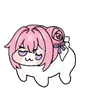
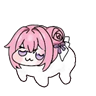
Redesign blink as stationary facial states

Changed region(s): [[0.3438, 0.5312, 0.4688, 0.6562]]

diff --git a/TASKS.md b/TASKS.md
@@ -9,7 +9,7 @@
   | Persist approved M1 design and implementation plan | Current spec and implementation plan inspected; JOENESS contract linked | Complete |
   | Implement and verify M1 | Automated core checks, Release publish, and all actual-Windows acceptance checks in the spec pass | In progress — the replacement E-only artifact uses `W=1.5`, E gain `2.5`, and C gain `0`. Source/native generation, causal thin-outline regression, repository visual inspection, independent review, fresh automation, framework-dependent publish, and attempt-8 actual-Windows body-outline observation pass. Closed-eye expression/motion refinement and remaining interaction/non-interference observations remain UNVERIFIED, so broader M1 is PARTIAL. |
   | Close phase-1 body-art correction | Exact E-only artifact preserves the canonical no-tail silhouette, matches the thin head/hair line, contains no protruding or internal continuation ink, and receives direct Windows user acceptance | Complete — user said `좋다` on attempt 8; exact evidence and cleanup are recorded. |
-  | Design and implement the next visual behavior phase | Character-preserving closed-eye revision plus distinct expressions and motion for mouse/situation states, with actual-Windows observation | In progress — Task 9 replaces the screen-right eye as part of the complete face frame instead of drawing a clipped eye-only overlay. Independent review rejected the first loose tolerance; the final check permits at most `0.01px`. The closed curve now moves from rejected center `39.81805` to `36.82536`, a measured `2.99269px` left movement with only `0.00731px` target error. The half frame moves the entire eye region progressively by an intermediate amount. Canonical open and screen-left eye remain unchanged, and all 97 reviewed foreground-hair source coordinates are restored over the eye. Static native inspection and full automated verification pass. The final exact runtime is open as PID `22088`; live IDLE blink and direct user acceptance remain `UNVERIFIED`, as do SLEEP breathing, click-only wake, and later state expressions/motion. Do not expand into progression, sound, accounts, or other deferred systems. |
+  | Design and implement the next visual behavior phase | Character-preserving closed-eye revision plus distinct expressions and motion for mouse/situation states, with actual-Windows observation | In progress — direct observation rejected Task 9's forced `3px` translation. Task 10 removes all translated-mask/content-copy paths and redraws stationary full-face eye states behind preserved foreground hair. The selected screen-right full-close curve is a separate connected `⌣` at native bounds `(38,53)-(43,56)` with `0.80394px` dip; half-close keeps the iris horizontally stationary and balances progress at `10/24` versus `17/40`. Canonical open remains unchanged. Static native inspection, independent review, focused tests, full ExactArt, Core `78/78`, and Release build pass. Stale Task 9 PID `22088` remains open until an exact clean Task 10 runtime is prepared. New live IDLE blink and direct user acceptance remain `UNVERIFIED`, as do SLEEP breathing, click-only wake, and later state expressions/motion. Do not expand into progression, sound, accounts, or other deferred systems. |
 
 - Blockers / decisions / links: no new Windows environment is required. Repository tests, asset inspection, assembly identity, and process liveness still do not prove live Windows rendering. The active body outline is accepted, but the next phase must preserve the exact supplied no-tail Dororong identity while revising closed eyes and adding state-specific expression/motion. Direct clicks continue to outrank inferred STARTLED reactions. Links: [eye-geometry/blink recovery plan](docs/plans/2026-08-29-dororong-stage-a-eye-geometry-blink-recovery.md), [expression/animation roadmap](docs/roadmaps/2026-08-28-dororong-m1-expression-animation-roadmap.md), [Stage A implementation plan](docs/plans/2026-08-28-dororong-m1-stage-a-closed-eye-sleep.md), [Stage A attempt-2 verdict](docs/verification/2026-08-29-m1-windows-acceptance-manual-stage-a-attempt-2.md), [specification](docs/specs/2026-08-26-dororong-m1-design.md), [body-outline plan](docs/plans/2026-08-27-dororong-complete-body-ownership-outline.md), [README](README.md), [attempt-7 FAIL](docs/verification/2026-08-28-m1-windows-acceptance-manual-attempt-7.md), [attempt-8 body PASS](docs/verification/2026-08-28-m1-windows-acceptance-manual-attempt-8.md), and [phase-1 history](docs/handoff/2026-08-28-dororong-phase-1-conversation-and-work-history.md).
-- Evidence / reviewed: 2026-08-29 — Stage A attempts 1–3, the blink attempt at clean HEAD `612f252f7f75a301c275212f4dd4185d6b75023f`, and Task 7's first hair-preserving runtime at `9ee97edc8dd71d183bcd48a23196014383d14929` remain eye-appearance/motion `FAIL`. Task 8 separated the lids from the hair but the user rejected the screen-right eye's global position. Task 9's source-first whole-face correction uses translated source masks `-8px` full / `-4px` half plus subpixel calibration, produces final native screen-right center `36.82536` against target `36.81805`, preserves canonical-open hash `238AC7F...B511`, restores 97 hair coordinates, and records full/half hashes `1F8A50A5...2331` / `44339755...0682`. The strict target error is `0.00731px` under a `0.01px` bound. Full automated verification and primary native open/half/full inspection pass. Final exact PID `22088` is running from `artifacts/repro/stage-a-right-eye-left-3px-attempt-2/`. Direct user acceptance, live IDLE blink, SLEEP breathing, and click-only wake remain `UNVERIFIED`. Phase-1 body-outline PASS and provenance boundaries remain unchanged. Broader M1 remains PARTIAL.
+- Evidence / reviewed: 2026-08-29 — Stage A attempts 1–3, the blink attempt at clean HEAD `612f252f7f75a301c275212f4dd4185d6b75023f`, Task 7's first hair-preserving runtime at `9ee97edc8dd71d183bcd48a23196014383d14929`, and Task 9's forced-left runtime remain eye-appearance/motion `FAIL`. Task 10 removes the old `-8/-4` translation implementation and its widened test allowances. Canonical open remains `238AC7F...B511`; selected native full/half identities are `62840545...F811` / `37200E62...0152`. ExactArt measures the screen-right curve as one six-column component with `0.80394px` dip and the half-close lower-iris centroid remains within `0.50px` of open. Static visual inspection, independent review, focused blink/occlusion/half/sleep/runtime checks, full ExactArt, Release build, and Core `78/78` pass. PID `22088` still runs the stale rejected Task 9 artifact and is not Task 10 evidence. Direct Task 10 live IDLE acceptance, SLEEP breathing, and click-only wake remain `UNVERIFIED`. Phase-1 body-outline PASS and provenance boundaries remain unchanged. Broader M1 remains PARTIAL.

diff --git a/docs/plans/2026-08-29-dororong-stage-a-eye-geometry-blink-recovery.md b/docs/plans/2026-08-29-dororong-stage-a-eye-geometry-blink-recovery.md
@@ -2,7 +2,7 @@
 
 **Goal:** Replace the failed symmetric lid-table treatment with independently fitted left/right closed eyes, then remove the abrupt open/closed swap with one deterministic half-closed frame.
 
[2 lines of base64/hex data omitted]
 
 ## Evidence-backed diagnosis
 
@@ -110,3 +110,15 @@ Use TDD against the rejected native center `39.8180538802584`. The requested tar
[1 lines of base64/hex data omitted]
 
 Focused occlusion, half-close, and eye-geometry checks pass, as do the full ExactArt suite, Release build, Core `78/78`, BlinkSequence, SleepPose, RuntimeComposition, BodyMask, ContinuousAuthority, and SubpixelOutline checks. Primary inspection of final native open/half/full frames passes for progressive position, face continuity, and hair-over-eye occlusion. The initial attempt-1 process was stopped after the stricter calibration made it stale. A new attempt-specific framework-dependent publish at `artifacts/repro/stage-a-right-eye-left-3px-attempt-2/` records EXE/App/Core hashes `3491D098...C293` / `1E476F29...A9F0` / `152D004A...1646` and is running as PID `22088`. Its live IDLE blink and direct user acceptance remain `UNVERIFIED`; the earlier attempt-1 240-frame capture observed autonomous WALK and is not reused as evidence for this final asset.
+
+Task 9 was later rejected by direct live user observation. Its exact `3px` position target is no longer an acceptance rule and its runtime is retained only as failed historical evidence.
+
+## Task 10 — Replace forced translation with stationary natural facial states
+
+The user-directed correction is a complete facial-state redraw: keep the canonical open face fixed, blank and redraw only the eye content inside that face, preserve foreground hair in front, and do not translate the eye or iris between frames. TDD first proved the rejected Task 9 asset placed the screen-right closed curve outside its canonical aperture and moved the half-close lower-iris centroid by about `1.55px`.
+
+The initial A/B/C position batch and D/E/F depth batch were rejected at native `96x96` because the central bang and screen-right lid still read as a joined hook. Candidate G separated the strokes but was too flat (`0.59775px` dip); H also failed (`0.58438px`). Column-level optical measurements identified a six-column raster-boundary effect. Candidate I keeps the endpoints clear of the bang and uses source controls `P0=(90.75,125.90)`, `P1=(96.10,133.80)`, `P2=(101.00,126.30)`. Its final screen-right curve is one connected six-column component at `(38,53)-(43,56)` with `0.80394px` downward-center dip, inside the canonical aperture `(36,50)-(43,57)`. The screen-left curve remains eight columns with `0.90243px` dip.
+
[1 lines of base64/hex data omitted]
+
[1 lines of base64/hex data omitted]
